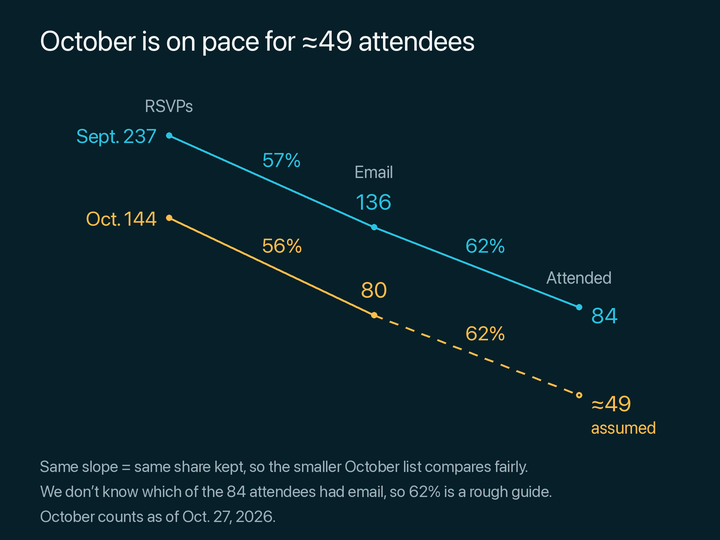
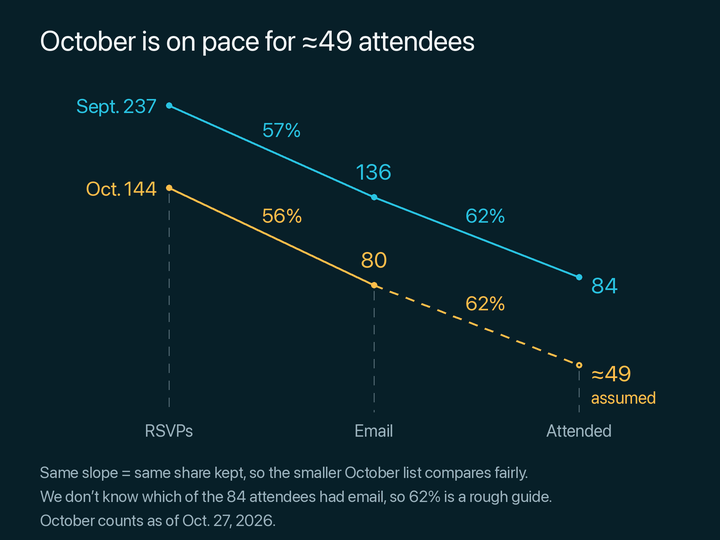
Move RSVP funnel stage labels to shared axis row

diff --git a/docs/reports/rsvp-attendance-funnel-visual-options/render_options.py b/docs/reports/rsvp-attendance-funnel-visual-options/render_options.py
@@ -20,7 +20,7 @@ HERE = Path(__file__).resolve().parent
 ROOT = HERE.parents[2]
 sys.path.insert(0, str(ROOT / "src/rsvp-slopegraph/src"))
 from rsvp_slopegraph import (  # noqa: E402
-    BACKGROUND, CLONES, MUTED, RENDER_SCALE, TEXT, VIEWS, load_font, segment_hits_box,
+    BACKGROUND, CLONES, MUTED, RENDER_SCALE, TEXT, VIEWS, fade, load_font, segment_hits_box,
 )
 
 DATA = json.loads((ROOT / "docs/reports/rsvp-slopegraph/stats.json").read_text())
@@ -103,7 +103,9 @@ def option_a():
     xs = (169, 374, 579)
 
     def y(value):
-        return 430 - math.log(float(value) / 40) / math.log(260 / 40) * 310
+        return 400 - math.log(float(value) / 40) / math.log(260 / 40) * 310
+
+    axis_y = 430
 
     series = (
         ("Sept.", (S_TOTAL, S_EMAIL, ATTENDED), SEPT_COLOR),
@@ -112,6 +114,11 @@ def option_a():
     segments = [
         ((xs[i], y(counts[i])), (xs[i+1], y(counts[i+1])))
         for _, counts, _ in series for i in range(2)
+    ]
+    # Dashed guides drop from each column's lowest dot to its stage name on the shared axis row.
+    guides = [
+        ((x, max(y(counts[i]) for _, counts, _ in series) + 6), (x, axis_y - 18))
+        for i, x in enumerate(xs)
     ]
     boxes = []
 
@@ -122,7 +129,7 @@ def option_a():
     def clear(box):
         expanded = (box[0]-6, box[1]-6, box[2]+6, box[3]+6)
         return (
-            not any(segment_hits_box(start, end, expanded) for start, end in segments)
+            not any(segment_hits_box(start, end, expanded) for start, end in segments + guides)
             and not any(box[0]-3 < b[2] and box[2]+3 > b[0]
                         and box[1]-3 < b[3] and box[3]+3 > b[1] for b in boxes)
         )
@@ -135,6 +142,9 @@ def option_a():
         boxes.append(box)
 
     label(40, 40, f"October is on pace for ≈{round(ESTIMATE)} attendees", 28, anchor="lm")
+    for (start, end), text in zip(guides, ("RSVPs", "Email", "Attended")):
+        c.line(start, end, fade(MUTED, 0.5), 1, dashed=True)
+        label(start[0], axis_y, text, 17, MUTED)
     for name, counts, color in series:
         ys = [y(v) for v in counts]
         for i in range(2):
@@ -143,20 +153,13 @@ def option_a():
         for i, (x, yy, value) in enumerate(zip(xs, ys, counts)):
             estimated = name == "Oct." and i == 2
             c.dot(x, yy, color, hollow=estimated, radius=3)
-            stage = name == "Sept."
             if i == 0:
                 label(x-12, yy, f"{name} {value}", 20, color, "rm")
-                if stage:
-                    label(x, yy-30, "RSVPs", 17, MUTED)
             elif i == 1:
                 label(x, yy-26, str(value), 22, color)
-                if stage:
-                    label(x, yy-56, "Email", 17, MUTED)
             else:
                 # Drop end labels slightly so they continue the downward slope.
                 label(x+12, yy+8, f"≈{round(value)}" if estimated else str(value), 22, color, "lm")
-                if stage:
-                    label(x, yy-30, "Attended", 17, MUTED)
                 if estimated:
                     label(x+12, yy+32, "assumed", 17, color, "lm")
     for row, (name, counts, color) in enumerate(series):
@@ -174,11 +177,11 @@ def option_a():
                     break
             else:
                 raise ValueError(f"No clear position for {text}")
-    label(40, 466, "Same slope = same share kept, so the smaller October list compares fairly.", 16, MUTED, "lm")
-    label(40, 491, "We don’t know which of the 84 attendees had email, so 62% is a rough guide.", 16, MUTED, "lm")
-    label(40, 516, "October counts as of Oct. 27, 2026.", 16, MUTED, "lm")
+    label(40, 472, "Same slope = same share kept, so the smaller October list compares fairly.", 16, MUTED, "lm")
+    label(40, 496, "We don’t know which of the 84 attendees had email, so 62% is a rough guide.", 16, MUTED, "lm")
+    label(40, 520, "October counts as of Oct. 27, 2026.", 16, MUTED, "lm")
     c.save("option-a-log-scale-three-stage-slopegraph.png", footer=False)
-    print(f"Option A: {len(boxes)} labels clear all four segments by at least 6 px; no text overlaps.")
+    print(f"Option A: {len(boxes)} labels clear all four segments and three guides by at least 6 px; no text overlaps.")
 
 
 def option_b():

diff --git a/docs/reports/rsvp-attendance-funnel-visual-options/rsvp-attendance-funnel-visual-options-comparison.md b/docs/reports/rsvp-attendance-funnel-visual-options/rsvp-attendance-funnel-visual-options-comparison.md
@@ -4,7 +4,7 @@
 
 **Selected: A, the three-stage slopegraph.** Wesley chose A in A1 and asked for less clutter, a narrower image and labels that do not collide with lines. That choice supersedes the initial recommendation of B.
 
-Option A is now **720 × 540**, 40% narrower than the original 1200-pixel image. B and C remain static 1200 × 1040 comparison images. A leads with its takeaway (“October is on pace for ≈49 attendees”), centers small grey stage names (RSVPs, Email, Attended) over September’s dots with extra space above the text below them, shows whole-number percentages and ends with three smaller plain-language notes. The brand, study badge, stage header row, repeated formulas, axis ticks and long footer were removed from A; exact arithmetic, the full snapshot time and caveats remain below. All options reuse the existing palette and font loader, with direct labels and no legend or gridlines. No final animation has been built.
+Option A is now **720 × 540**, 40% narrower than the original 1200-pixel image. B and C remain static 1200 × 1040 comparison images. A leads with its takeaway (“October is on pace for ≈49 attendees”), names the stages (RSVPs, Email, Attended) in grey on one shared row along the bottom, joins each name to its column’s dots with a faint dashed guide, shows whole-number percentages and ends with three smaller plain-language notes. The brand, study badge, top header row, repeated formulas, axis ticks and long footer were removed from A; exact arithmetic, the full snapshot time and caveats remain below. All options reuse the existing palette and font loader, with direct labels and no legend or gridlines. No final animation has been built.
 
 ## Counts and snapshot
 
@@ -54,7 +54,7 @@ Fractions below are exact. Decimals with an ellipsis continue; headline percenta
 
 ## Option A — log-scale three-stage slopegraph
 
-![Option A: September and October counts across RSVPs, with email and attendance, with grey stage names above September’s counts; October’s estimated last step is dashed and labeled assumed.](option-a-log-scale-three-stage-slopegraph.png)
+![Option A: September and October counts across RSVPs, with email and attendance; grey stage names share a bottom row with dashed guides up to the dots, and October’s estimated last step is dashed and labeled assumed.](option-a-log-scale-three-stage-slopegraph.png)
 
 **What a viewer gets in five seconds:** both months lose a similar proportion between RSVPs and email guests; extending October with September’s next ratio gives about 49 attendees. Counts remain visible throughout.
 
@@ -98,8 +98,8 @@ python3 -B docs/reports/rsvp-attendance-funnel-visual-options/render_options.py
 
 The [render script](render_options.py) reads the saved stats, imports the existing palette/font loader, uses exact rational arithmetic until drawing, and writes only the three PNGs beside itself. It does not update the source report, stats, GIF or Google Sheet. Layout and copy are mockups for this snapshot, not a hardened general-purpose chart API.
 
-Verification performed: ran the renderer after the third compact revision and opened the new A PNG for visual inspection. A rendered at 720 × 540; all 18 text labels passed the render-time check for at least six pixels of clearance from all four full line segments, with no text overlaps. Text bounds also passed the canvas-edge check. B and C still rendered at 1200 × 1040. No test suite was run, as requested. Static mockups only; no animation timing or device-specific display check is claimed.
+Verification performed: ran the renderer after the latest compact revision and opened the new A PNG for visual inspection. A rendered at 720 × 540; all 18 text labels passed the render-time check for at least six pixels of clearance from all four full line segments and all three dashed guides, with no text overlaps. Text bounds also passed the canvas-edge check. B and C still rendered at 1200 × 1040. No test suite was run, as requested. Static mockups only; no animation timing or device-specific display check is claimed.
 
 ## Selected design
 
-A1 is resolved: **A — follow each month’s count path**, with less clutter, a narrower layout and labels clear of lines. A second pass replaced the topic title with the takeaway, rounded percentages to whole numbers and rewrote the notes in plain words. A third pass, from Wesley’s marked-up screenshot, added grey stage names, centered 136 and 80 over their dots, lowered 84 and ≈49 to follow the line slope, moved “assumed” under ≈49, shrank the notes and dropped the clock time from the chart. A fourth pass centered each grey stage name over its September dot and added a little vertical space above the text below it. The refined A image is embedded above. B and C remain here as the alternatives considered, not as open choices. Both attendance formulas and the complete snapshot caveats remain in this report rather than on the compact chart.
+A1 is resolved: **A — follow each month’s count path**, with less clutter, a narrower layout and labels clear of lines. A second pass replaced the topic title with the takeaway, rounded percentages to whole numbers and rewrote the notes in plain words. A third pass, from Wesley’s marked-up screenshot, centered 136 and 80 over their dots, lowered 84 and ≈49 to follow the line slope, moved “assumed” under ≈49, shrank the notes and dropped the clock time from the chart. A later pass, from a second markup, moved the grey stage names onto one shared bottom row, added faint dashed guides from each name up to its column’s dots and raised the lines to make room while keeping a clear gap under the title. The refined A image is embedded above. B and C remain here as the alternatives considered, not as open choices. Both attendance formulas and the complete snapshot caveats remain in this report rather than on the compact chart.
